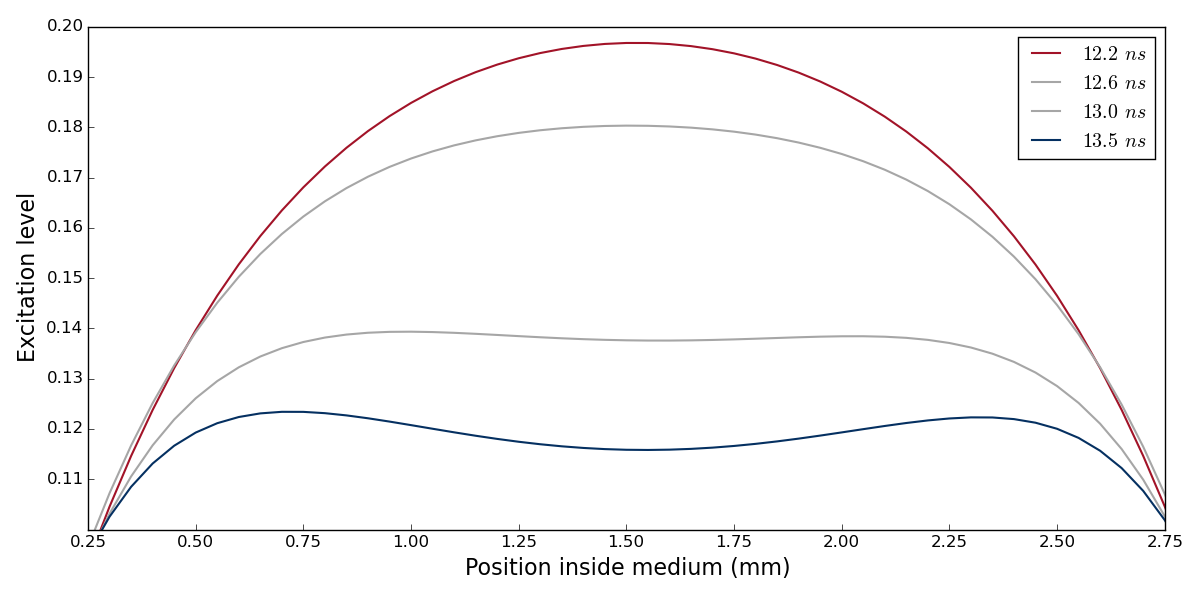
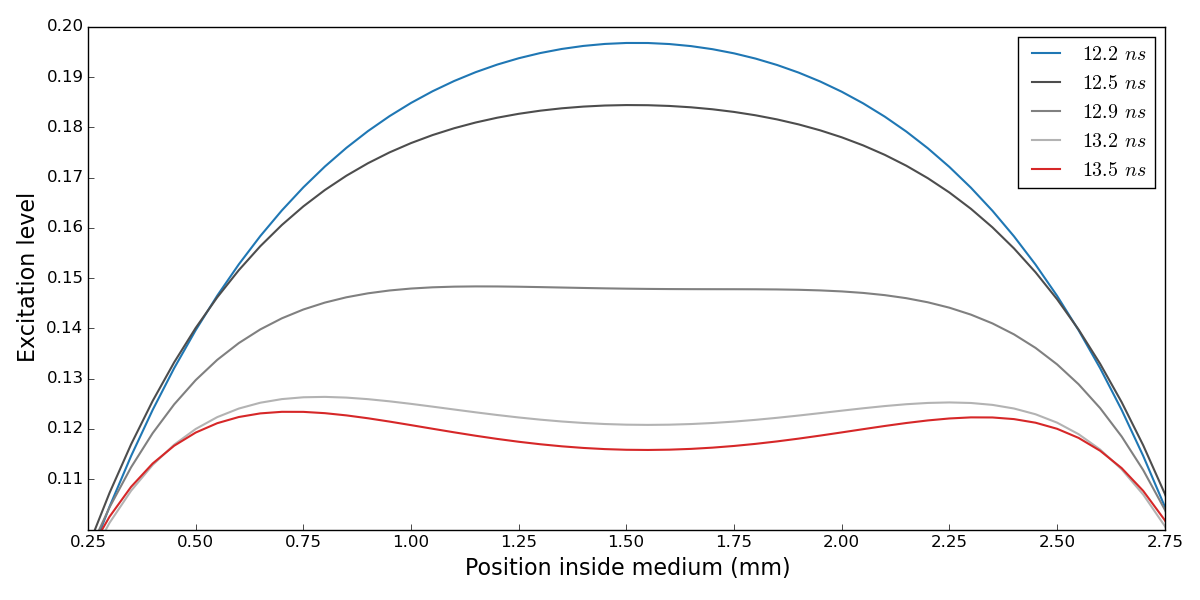
Modify colour scheme and edit legend

diff --git a/.graphs/12Apr/2Dplot.py b/.graphs/12Apr/2Dplot.py
@@ -8,6 +8,16 @@ plt.close('all')
 npop = np.load('N_pop_storage.npy')
 wa = np.load('W_A_storage.npy')
 
+# some colours
+tableau20 = [(31, 119, 180), (174, 199, 232), (255, 127, 14), (255, 187, 120),  
+             (44, 160, 44), (152, 223, 138), (214, 39, 40), (255, 152, 150),  
+             (148, 103, 189), (197, 176, 213), (140, 86, 75), (196, 156, 148),  
+             (227, 119, 194), (247, 182, 210), (127, 127, 127), (199, 199, 199),  
+             (188, 189, 34), (219, 219, 141), (23, 190, 207), (158, 218, 229)] 
+for i in range(len(tableau20)):  
+    r, g, b = tableau20[i]  
+    tableau20[i] = (r / 255., g / 255., b / 255.)          
+
 # spatial grid
 l = 100.e-6
 L = 0.003  # length of slap
@@ -24,19 +34,23 @@ time = dt*100*np.arange(0, 1000, 1)
 # take snapshots at 12.9ns (max) and at 14.5ns (min) 
 # 20 rows = 1 ns
 npop12_2 = npop[244, 32][1:-1]
-npop12_6 = npop[252, 32][1:-1]
-npop13_0 = npop[260, 32][1:-1]
+npop12_5 = npop[251, 32][1:-1]
+npop12_9 = npop[258, 32][1:-1]
+npop13_2 = npop[265, 32][1:-1]
 npop13_5 = npop[271, 32][1:-1]
 
-snapshots = [npop12_2, npop12_6, npop13_0, npop13_5]
-snapshot_labels = [r"$12.2\/ns$", r"$12.6\/ns$", r"$13.0\/ns$", r"$13.5\/ns$"]
+snapshots = [npop12_2, npop12_5, npop12_9, npop13_2, npop13_5]
+snapshot_labels = [r"$12.2\/ns$", r"$12.5\/ns$", r"$12.9\/ns$", r"$13.2\/ns$", r"$13.5\/ns$"]
+greys = ['0.3', '0.5', '0.7']
 
 fig, ax = plt.subplots(figsize=(12,6))
 for i, snapshot in enumerate(snapshots):
-	if i == 0 or i == 3:
-		ax.plot(X, snapshot, color=plt.cm.RdBu(20+150*i), linewidth=1.5, label=snapshot_labels[i])
+	if i == 0:
+		ax.plot(X, snapshot, color=tableau20[0], linewidth=1.5, label=snapshot_labels[i])
+	elif i == 4:
+		ax.plot(X, snapshot, color=tableau20[6], linewidth=1.5, label=snapshot_labels[i])
 	else:
-		ax.plot(X, snapshot, color='0.65', linewidth=1.5, label=snapshot_labels[i])
+		ax.plot(X, snapshot, color=greys[i-1], linewidth=1.5, label=snapshot_labels[i])
 
 ax.set_xlim((0.25, 2.75))
 ax.set_ylim((0.1, 0.2))
@@ -44,7 +58,8 @@ ax.set_ylabel('Excitation level', fontsize=16)
 ax.set_xlabel('Position inside medium (mm)', fontsize=16)
 ax.set_xticks(np.arange(0.25, 3., 0.25))
 ax.set_yticks(np.arange(0.11, 0.21, 0.01))
-ax.legend()
+lg = ax.legend()
+lg.draw_frame(False)
 ax.xaxis.set_ticks_position('bottom')
 ax.yaxis.set_ticks_position('left')
 
